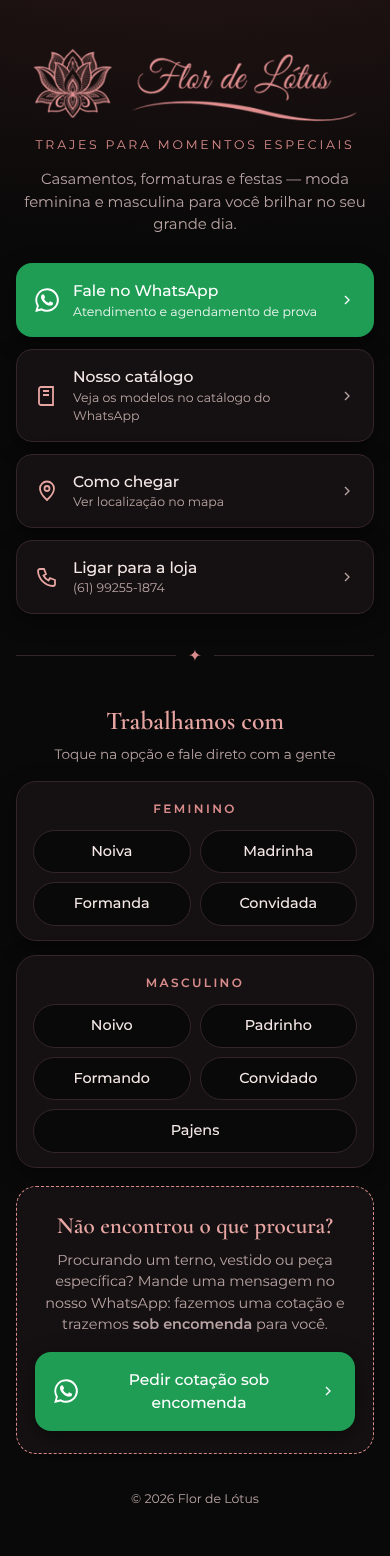
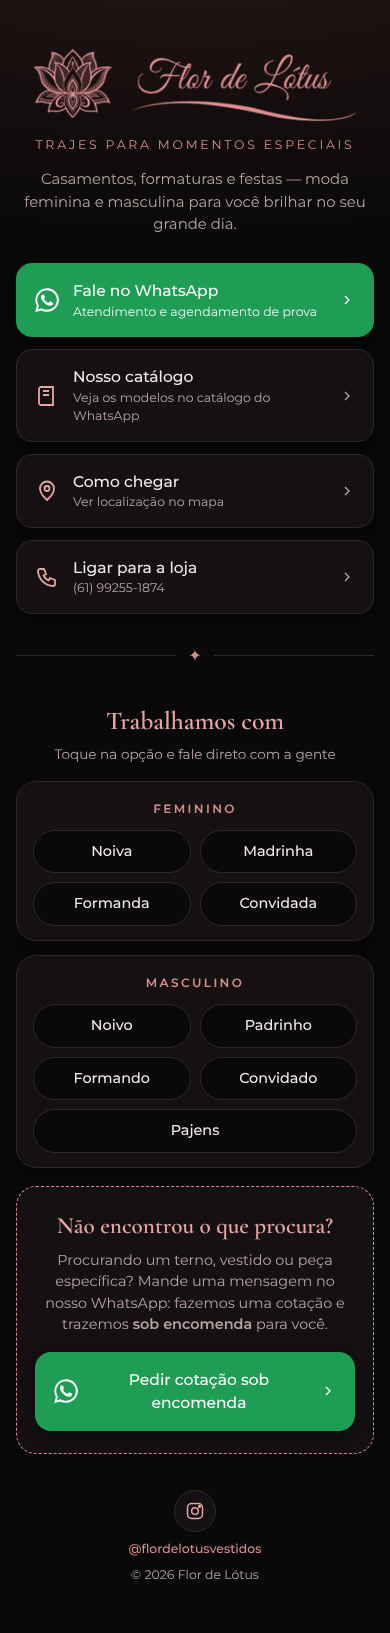
Flor de Lótus: Instagram @flordelotusvestidos
Claude-Session: https://claude.ai/code/session_01SNx1owwU5fwBK2XfG7QNW9

diff --git a/flor-de-lotus/index.html b/flor-de-lotus/index.html
@@ -84,6 +84,7 @@ footer{text-align:center;color:var(--muted);font-size:.78rem;margin-top:36px}
 footer .social{display:flex;justify-content:center;gap:12px;margin-bottom:12px}
 footer .social a{width:42px;height:42px;border-radius:50%;display:grid;place-items:center;
   background:var(--card);border:1px solid var(--line);color:var(--plum)}
+footer .ig{color:var(--rose);margin:-4px 0 8px;font-weight:500}
 footer .social svg{width:20px;height:20px}
 </style>
 </head>
@@ -157,10 +158,11 @@ footer .social svg{width:20px;height:20px}
 
   <footer>
     <div class="social">
-      <a id="instagram" href="#" target="_blank" rel="noopener" aria-label="Instagram">
+      <a id="instagram" href="#" target="_blank" rel="noopener" aria-label="Instagram @flordelotusvestidos">
         <svg viewBox="0 0 24 24" fill="none" stroke="currentColor" stroke-width="1.8"><rect x="3" y="3" width="18" height="18" rx="5"/><circle cx="12" cy="12" r="4"/><circle cx="17.5" cy="6.5" r="1" fill="currentColor"/></svg>
       </a>
     </div>
+    <p class="ig">@flordelotusvestidos</p>
     <p id="horario">Seg a Sex 9h–18h · Sáb 9h–13h</p>
     <p>© <span id="ano"></span> Flor de Lótus</p>
   </footer>
@@ -176,7 +178,7 @@ const LOJA = {
   endereco:  "",                           // ex.: "Rua X, 123 – Bairro, Brasília/DF" (vazio = botão escondido)
   mapa:      "https://maps.app.goo.gl/Z8nqTx3n5kTgxA7C6",
   catalogo:  "https://wa.me/c/556192551874",
-  instagram: "",                           // ex.: "https://instagram.com/flordelotus" (vazio = escondido)
+  instagram: "https://instagram.com/flordelotusvestidos",
   horario:   ""                            // ex.: "Seg a Sex 9h–18h · Sáb 9h–13h" (vazio = escondido)
 };
 
